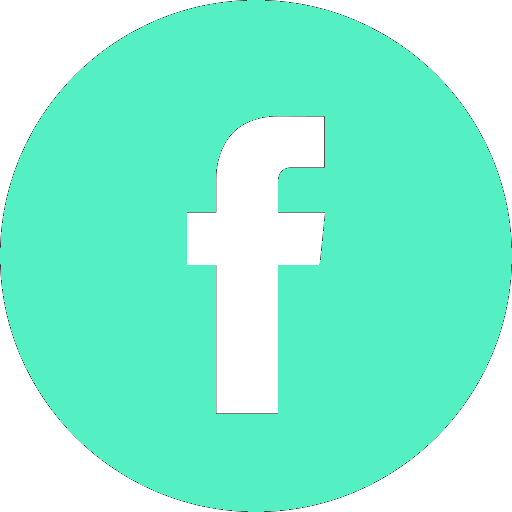
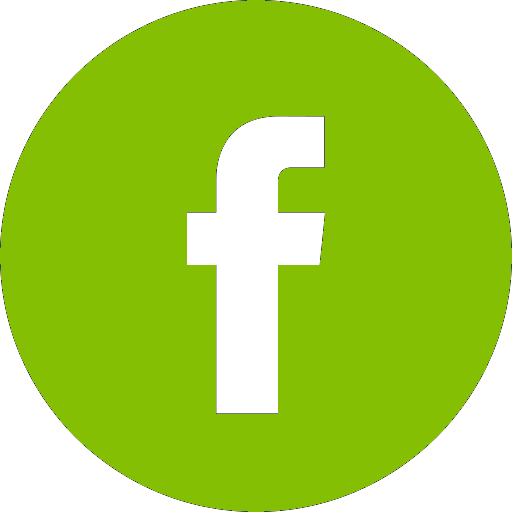
11-30

diff --git a/gittest/src/main/webapp/assets/css/main.css b/gittest/src/main/webapp/assets/css/main.css
@@ -13,6 +13,9 @@ html {
   width: 80vw;
   margin-top: 5vh;
 }
+body{
+	background-color: #fff0;
+}
 #topleftmenu{
   height: 100%;
   justify-content: center;
@@ -38,7 +41,7 @@ a {
 }
 .footer_bottom{
 	padding-top: 0.8%;
-  border-top: 1px solid rgb(152, 152, 152);
+  border-top: 1px solid #A8C595
 }
 footer{
 width:100%;
@@ -46,7 +49,7 @@ width:100%;
   max-height: 200px;
   min-height: 150px;
   /* background-color: rgb(255, 255, 255); */
-  color: #55EFC4;
+  color:#8ec810;
   margin-bottom: 100px
 }
 
@@ -162,7 +165,7 @@ input[type=text],input[type=password] {
   color: white;
   background-color: #2d2d2d;
   float: left;
-  line-height: 30px;
+  line-height: 40px;
   vertical-align: middle;
   text-align: center;
   position: relative;
@@ -191,7 +194,7 @@ input[type=text],input[type=password] {
   /* 상위 메뉴의 li에 마우스오버 되었을 때 스타일 설정 */
   /* color: red; */
   /* background-color: #4d4d4d; */
-  border-bottom: #2d2d2d solid 3px;
+  border-bottom: #84BF04 solid 3px;
 }
 
 .longLink {
@@ -217,10 +220,10 @@ input[type=text],input[type=password] {
   height: 0px;
   overflow: hidden;
   /* 나오는 임펙트 시간 */
-  /* transition: height .2s;
+  transition: height .2s;
     -webkit-transition: height .2s;
     -moz-transition: height .2s;
-    -o-transition: height .2s; */
+    -o-transition: height .2s;
   width: 100%;
   /* [변경] 가로 드랍다운 메뉴의 넓이 */
 }
@@ -236,9 +239,10 @@ input[type=text],input[type=password] {
 
 .topMenuLi:hover .submenu {
   /* 상위 메뉴에 마우스 모버한 경우 그 안의 하위 메뉴 스타일 설정 */
-  height: 32px;
+  height: 40px;
   width: auto;
   border: solid #2d2d2d 1px;
+  border-radius: 5px;
 
   /* [변경] 높이를 32px로 설정 */
 }
@@ -246,7 +250,7 @@ input[type=text],input[type=password] {
 .submenuLink:hover {
   /* 하위 메뉴의 a 태그의 마우스 오버 스타일 설정 */
   color: rgb(0, 0, 0);
-  /* background-color: #dddddd; */
+  background-color: #C1D9B0;
 
 }
 
@@ -498,6 +502,10 @@ input[type=text],input[type=password] {
   display: flex;
   justify-content: flex-end;
 }
+.sns>li>img{
+	width: 100%;
+	height: auto;
+}
 .sns li{
   margin-right: 10px;
 }
@@ -684,20 +692,20 @@ select{
   align-items: center;
 }
 .comment .btn{
-  --bs-btn-bg:#55efc4;
+  --bs-btn-bg:#A8C595;
   color: #fff;
   border-color: #fff;
 }
 .comment .btn:hover{
-  background-color:#00cec9;
+  background-color:#A8C595;
 }
 .input-group .btn{
-  --bs-btn-bg:#55efc4;
+  --bs-btn-bg:#84BF04;
   color: #fff;
   border-color: #fff;
 }
 .input-group .btn:hover{
-  background-color:#00cec9;
+  background-color:#A8C595;
 }
 .bi-heart-fill{
   font-size: 3rem;
@@ -708,9 +716,82 @@ select{
     --bs-btn-border-color: #000000;
     --bs-btn-hover-color: #000;
     --bs-btn-hover-bg: #9b9b9b;
-    --bs-btn-hover-border-color: #000000;
+    --bs-btn-hover-border-color: #8ec810;
     --bs-btn-focus-shadow-rgb: 49,132,253;
     --bs-btn-active-color: #f00;
     --bs-btn-active-bg: #ffffff;
     --bs-btn-active-border-color: #000000;
 }
+
+
+/* 슬라이더 */
+* {
+  margin: 0;
+  padding: 0;
+}
+
+[type=radio] {
+  display: none;
+}
+#slider>[type=radio] {
+  display: none;
+}
+
+#slider {
+  height: 33vw;
+  position: relative;
+  perspective: 1000px;
+  transform-style: preserve-3d;
+}
+
+#slider label {
+  margin: auto;
+  width: 30%;
+  height: 80%;
+  border-radius: 4px;
+  position: absolute;
+  left: 0; right: 0;
+  cursor: pointer;
+  transition: transform 0.4s ease;
+}
+
+#s1:checked ~ #slide4, #s2:checked ~ #slide5,
+#s3:checked ~ #slide1, #s4:checked ~ #slide2,
+#s5:checked ~ #slide3 {
+  box-shadow: 0 1px 4px 0 rgba(0,0,0,.37);
+  transform: translate3d(-120%,0,-200px);
+}
+
+#s1:checked ~ #slide5, #s2:checked ~ #slide1,
+#s3:checked ~ #slide2, #s4:checked ~ #slide3,
+#s5:checked ~ #slide4 {
+  box-shadow: 0 6px 10px 0 rgba(0,0,0,.3), 0 2px 2px 0 rgba(0,0,0,.2);
+  transform: translate3d(-60%,0,-100px);
+}
+
+#s1:checked ~ #slide1, #s2:checked ~ #slide2,
+#s3:checked ~ #slide3, #s4:checked ~ #slide4,
+#s5:checked ~ #slide5 {
+  box-shadow: 0 13px 25px 0 rgba(0,0,0,.3), 0 11px 7px 0 rgba(0,0,0,.19);
+  transform: translate3d(0,0,0);
+}
+
+#s1:checked ~ #slide2, #s2:checked ~ #slide3,
+#s3:checked ~ #slide4, #s4:checked ~ #slide5,
+#s5:checked ~ #slide1 {
+  box-shadow: 0 6px 10px 0 rgba(0,0,0,.3), 0 2px 2px 0 rgba(0,0,0,.2);
+  transform: translate3d(60%,0,-100px);
+}
+
+#s1:checked ~ #slide3, #s2:checked ~ #slide4,
+#s3:checked ~ #slide5, #s4:checked ~ #slide1,
+#s5:checked ~ #slide2 {
+  box-shadow: 0 1px 4px 0 rgba(0,0,0,.37);
+  transform: translate3d(120%,0,-200px);
+}
+
+#slide1 { background: #00BCD4 }
+#slide2 { background: #4CAF50 }
+#slide3 { background: #CDDC39 }
+#slide4 { background: #FFC107 }
+#slide5 { background: #FF5722 }

diff --git a/gittest/src/main/webapp/main.html b/gittest/src/main/webapp/main.html
@@ -316,49 +316,18 @@
         <main id="" class="">
 
 
-            <div id="carouselExampleDark" class="carousel carousel-dark slide" data-bs-ride="carousel">
-                <div class="carousel-indicators">
-                    <button type="button" data-bs-target="#carouselExampleDark" data-bs-slide-to="0" class="active"
-                        aria-current="true" aria-label="Slide 1"></button>
-                    <button type="button" data-bs-target="#carouselExampleDark" data-bs-slide-to="1"
-                        aria-label="Slide 2"></button>
-                    <button type="button" data-bs-target="#carouselExampleDark" data-bs-slide-to="2"
-                        aria-label="Slide 3"></button>
-                </div>
-                <div class="carousel-inner">
-                    <div class="carousel-item active" data-bs-interval="10000">
-                        <img src="https://via.placeholder.com/800x400" class="d-block w-100" alt="...">
-                        <div class="carousel-caption d-none d-md-block">
-                            <h5>First slide label</h5>
-                            <p>Some representative placeholder content for the first slide.</p>
-                        </div>
-                    </div>
-                    <div class="carousel-item" data-bs-interval="2000">
-                        <img src="https://via.placeholder.com/800x400" class="d-block w-100" alt="...">
-                        <div class="carousel-caption d-none d-md-block">
-                            <h5>Second slide label</h5>
-                            <p>Some representative placeholder content for the second slide.</p>
-                        </div>
-                    </div>
-                    <div class="carousel-item">
-                        <img src="https://via.placeholder.com/800x400" class="d-block w-100" alt="...">
-                        <div class="carousel-caption d-none d-md-block">
-                            <h5>Third slide label</h5>
-                            <p>Some representative placeholder content for the third slide.</p>
-                        </div>
-                    </div>
-                </div>
-                <button class="carousel-control-prev" type="button" data-bs-target="#carouselExampleDark"
-                    data-bs-slide="prev">
-                    <span class="carousel-control-prev-icon" aria-hidden="true"></span>
-                    <span class="visually-hidden">Previous</span>
-                </button>
-                <button class="carousel-control-next" type="button" data-bs-target="#carouselExampleDark"
-                    data-bs-slide="next">
-                    <span class="carousel-control-next-icon" aria-hidden="true"></span>
-                    <span class="visually-hidden">Next</span>
-                </button>
-            </div>
+            <section id="slider">
+                <input type="radio" name="slider" id="s1">
+                <input type="radio" name="slider" id="s2">
+                <input type="radio" name="slider" id="s3" checked>
+                <input type="radio" name="slider" id="s4">
+                <input type="radio" name="slider" id="s5">
+                <label for="s1" id="slide1"><img src="https://via.placeholder.com/200x275" alt=""></label>
+                <label for="s2" id="slide2"><img src="https://via.placeholder.com/200x275" alt=""></label>
+                <label for="s3" id="slide3"><img src="https://via.placeholder.com/200x275" alt=""></label>
+                <label for="s4" id="slide4"><img src="https://via.placeholder.com/200x275" alt=""></label>
+                <label for="s5" id="slide5"><img src="https://via.placeholder.com/200x275" alt=""></label>
+              </section>
             <h1>경남/부산</h1>
             <div class="tabscontainer">
                 <ul class="tabsmenu">

diff --git a/gittest/src/main/webapp/bulletinContent.html b/gittest/src/main/webapp/bulletinContent.html
@@ -319,17 +319,17 @@
             <div class="tabscontainer">
                 <ul class="tabsmenu">
                     <li class="active">
-                        <a href="#tab11">문의 게시판</a>
+                        <a href="bulletinBoard.jsp">문의 게시판</a>
                     </li>
                     <li>
-                        <a href="#tab12">건의 게시판</a>
+                        <a href="bulletinBoard2.jsp">건의 게시판</a>
                     </li>
                 </ul>
                 <div class="tabselements">
                     <div class="row">
                         <div class="col-12">
                             
-                            <input type="text" class="post-name" placeholder="제목">
+                            <p class="post-name">하하하 제목칸이다</p>
                         </div>
                         <div class="mt-3"></div>
                         <div class="input-group mb-3 comment post-text">
@@ -337,6 +337,13 @@
                             <P>안녕하세요 감사해요 잘있어요 다시만나요</P>
         
                         </div>
+                            <div class="crystal-icon">
+                                <button class="btn btn-primary" data-bs-target="#exampleModalToggle2"
+                                data-bs-toggle="modal">수정</button>
+                                <button class="btn btn-primary" data-bs-target="#exampleModalToggle2"
+                                data-bs-toggle="modal">삭제</button>
+                                </div>
+                        <div class="mt-3"></div>
                 </div>
             </div>
             

diff --git a/gittest/src/main/webapp/assets/css/bulletinBoard.css b/gittest/src/main/webapp/assets/css/bulletinBoard.css
@@ -39,3 +39,32 @@
     margin-top:1%;
     margin-bottom: 1%;
 }
+.post-text{
+    width: 95%;
+    min-height: 350px;
+    height: 100%;
+    border: 3px solid bisque;
+    border-radius: 25px;
+    margin-left: 2%;
+
+}
+.post-name{
+    margin-top: 2%;
+    height: 45px;
+    padding: 0 50px 0 20px;
+    border: 0;
+    border-radius: 45px;
+    background-color: #eee;
+    display: flex;
+    align-items: center;
+}
+.tabselements {
+    border-top:none; 
+  }
+.crystal-icon{
+    display: flex;
+    justify-content: flex-end;
+}
+.crystal-icon>button{
+    margin-right: 10px;
+}
